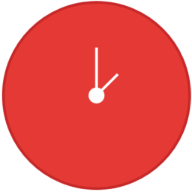
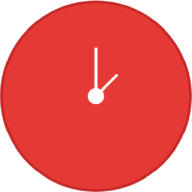
Update to manifest

diff --git a/public/sw.js b/public/sw.js
@@ -1,0 +1,111 @@
+// PomoUno Service Worker
+const CACHE_NAME = 'pomouno-v1';
+const urlsToCache = [
+  '/',
+  '/manifest.json',
+  '/web-app-manifest-192x192.png',
+  '/web-app-manifest-512x512.png',
+  '/apple-icon.png',
+  '/offline.html'
+];
+
+// Install event - cache resources
+self.addEventListener('install', (event) => {
+  event.waitUntil(
+    caches.open(CACHE_NAME)
+      .then((cache) => {
+        return cache.addAll(urlsToCache);
+      })
+      .catch((error) => {
+        console.log('Cache install failed:', error);
+      })
+  );
+  // Force the waiting service worker to become the active service worker
+  self.skipWaiting();
+});
+
+// Activate event - clean up old caches
+self.addEventListener('activate', (event) => {
+  event.waitUntil(
+    caches.keys().then((cacheNames) => {
+      return Promise.all(
+        cacheNames.map((cacheName) => {
+          if (cacheName !== CACHE_NAME) {
+            return caches.delete(cacheName);
+          }
+        })
+      );
+    })
+  );
+  // Ensure the service worker takes control immediately
+  self.clients.claim();
+});
+
+// Fetch event - serve from cache when offline
+self.addEventListener('fetch', (event) => {
+  // Only handle GET requests
+  if (event.request.method !== 'GET') {
+    return;
+  }
+
+  // Skip Firebase and external API requests
+  if (event.request.url.includes('firestore.googleapis.com') ||
+      event.request.url.includes('firebase') ||
+      event.request.url.includes('googleapis.com') ||
+      event.request.url.includes('chrome-extension')) {
+    return;
+  }
+
+  event.respondWith(
+    caches.match(event.request)
+      .then((response) => {
+        // Return cached version or fetch from network
+        return response || fetch(event.request).catch(() => {
+          // If both cache and network fail, return offline page for navigation requests
+          if (event.request.mode === 'navigate') {
+            return caches.match('/');
+          }
+        });
+      })
+  );
+});
+
+// Handle background sync for offline functionality
+self.addEventListener('sync', (event) => {
+  if (event.tag === 'background-sync') {
+    event.waitUntil(
+      // Handle any background sync tasks here
+      console.log('Background sync triggered')
+    );
+  }
+});
+
+// Handle push notifications (if needed in the future)
+self.addEventListener('push', (event) => {
+  if (event.data) {
+    const data = event.data.json();
+    const options = {
+      body: data.body,
+      icon: '/web-app-manifest-192x192.png',
+      badge: '/web-app-manifest-192x192.png',
+      vibrate: [100, 50, 100],
+      data: {
+        dateOfArrival: Date.now(),
+        primaryKey: data.primaryKey || 1
+      }
+    };
+
+    event.waitUntil(
+      self.registration.showNotification(data.title, options)
+    );
+  }
+});
+
+// Handle notification clicks
+self.addEventListener('notificationclick', (event) => {
+  event.notification.close();
+  
+  event.waitUntil(
+    clients.openWindow('/')
+  );
+});

diff --git a/public/offline.html b/public/offline.html
@@ -1,0 +1,60 @@
+<!DOCTYPE html>
+<html lang="en">
+<head>
+    <meta charset="UTF-8">
+    <meta name="viewport" content="width=device-width, initial-scale=1.0">
+    <title>PomoUno - Offline</title>
+    <style>
+        body {
+            font-family: -apple-system, BlinkMacSystemFont, 'Segoe UI', Roboto, sans-serif;
+            display: flex;
+            flex-direction: column;
+            align-items: center;
+            justify-content: center;
+            min-height: 100vh;
+            margin: 0;
+            background: #f5f5f5;
+            color: #333;
+            text-align: center;
+            padding: 20px;
+        }
+        .offline-container {
+            max-width: 400px;
+        }
+        .offline-icon {
+            font-size: 4rem;
+            margin-bottom: 1rem;
+        }
+        h1 {
+            color: #E53935;
+            margin-bottom: 1rem;
+        }
+        p {
+            margin-bottom: 2rem;
+            line-height: 1.5;
+        }
+        .retry-button {
+            background: #E53935;
+            color: white;
+            border: none;
+            padding: 12px 24px;
+            border-radius: 6px;
+            cursor: pointer;
+            font-size: 1rem;
+        }
+        .retry-button:hover {
+            background: #d32f2f;
+        }
+    </style>
+</head>
+<body>
+    <div class="offline-container">
+        <div class="offline-icon">📱</div>
+        <h1>You're Offline</h1>
+        <p>PomoUno needs an internet connection to sync your data. You can still use the basic timer functionality while offline.</p>
+        <button class="retry-button" onclick="window.location.reload()">
+            Try Again
+        </button>
+    </div>
+</body>
+</html>
